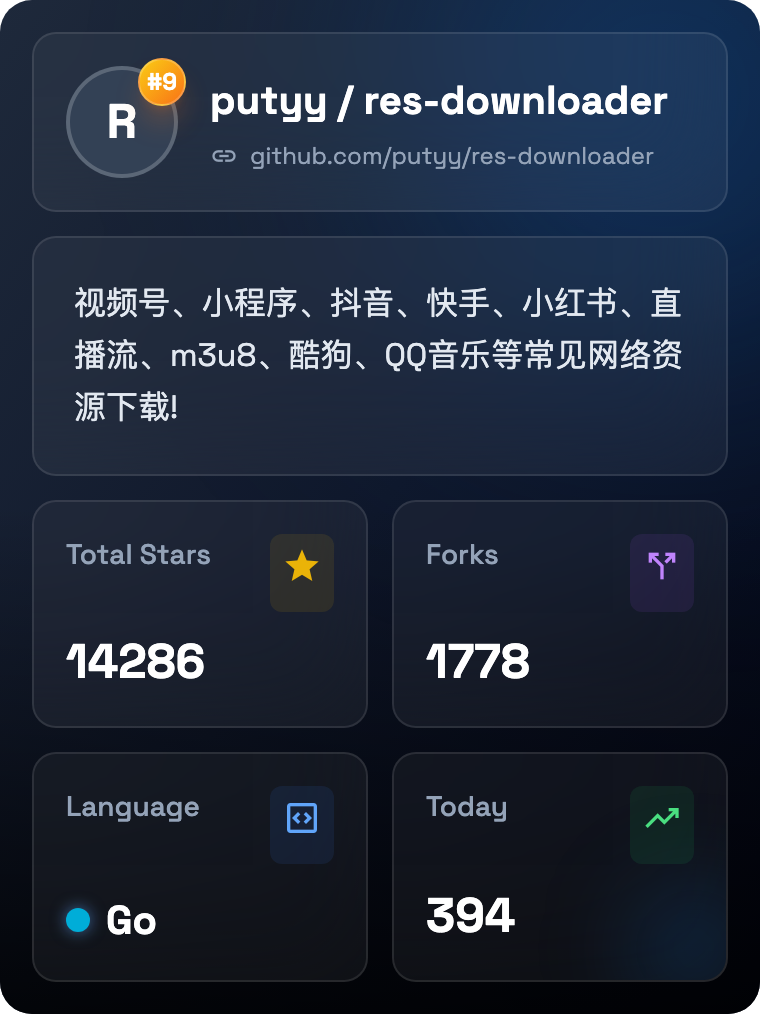
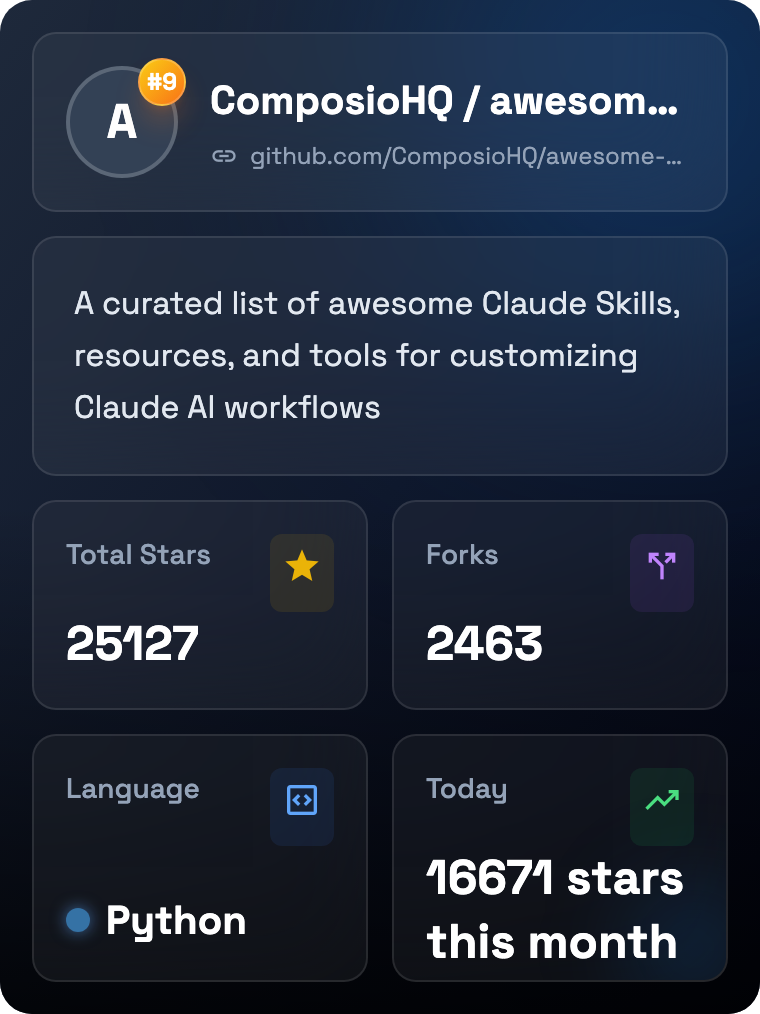
chore: template change

diff --git a/tests/scraper.test.ts b/tests/scraper.test.ts
@@ -1,7 +1,7 @@
 import { describe, it, expect, beforeAll } from 'vitest';
 import * as fs from 'fs';
 import * as path from 'path';
-import { parseTrendingHtml, validateRepos } from '../src/scraper';
+import { parseTrendingHtml, validateRepos, buildTrendingUrl } from '../src/scraper';
 import { TrendingRepoSchema } from '../src/types';
 import { parseNumber } from '../src/utils';
 
@@ -67,6 +67,61 @@ describe('scraper', () => {
         const result = TrendingRepoSchema.safeParse(repo);
         expect(result.success).toBe(true);
       });
+    });
+  });
+
+  describe('buildTrendingUrl', () => {
+    it('should return base URL when no options provided', () => {
+      expect(buildTrendingUrl()).toBe('https://github.com/trending');
+      expect(buildTrendingUrl({})).toBe('https://github.com/trending');
+    });
+
+    it('should add language to URL path', () => {
+      expect(buildTrendingUrl({ language: 'typescript' })).toBe(
+        'https://github.com/trending/typescript'
+      );
+      expect(buildTrendingUrl({ language: 'python' })).toBe(
+        'https://github.com/trending/python'
+      );
+    });
+
+    it('should convert language to lowercase', () => {
+      expect(buildTrendingUrl({ language: 'TypeScript' })).toBe(
+        'https://github.com/trending/typescript'
+      );
+      expect(buildTrendingUrl({ language: 'PYTHON' })).toBe(
+        'https://github.com/trending/python'
+      );
+    });
+
+    it('should add since query parameter', () => {
+      expect(buildTrendingUrl({ since: 'daily' })).toBe(
+        'https://github.com/trending?since=daily'
+      );
+      expect(buildTrendingUrl({ since: 'weekly' })).toBe(
+        'https://github.com/trending?since=weekly'
+      );
+      expect(buildTrendingUrl({ since: 'monthly' })).toBe(
+        'https://github.com/trending?since=monthly'
+      );
+    });
+
+    it('should combine language and since parameters', () => {
+      expect(buildTrendingUrl({ language: 'typescript', since: 'weekly' })).toBe(
+        'https://github.com/trending/typescript?since=weekly'
+      );
+      expect(buildTrendingUrl({ language: 'go', since: 'monthly' })).toBe(
+        'https://github.com/trending/go?since=monthly'
+      );
+    });
+
+    it('should encode special characters in language', () => {
+      expect(buildTrendingUrl({ language: 'c++' })).toBe(
+        'https://github.com/trending/c%2B%2B'
+      );
+      expect(buildTrendingUrl({ language: 'c#' })).toBe(
+        'https://github.com/trending/c%23'
+      );
     });
   });
 

diff --git a/src/scraper.ts b/src/scraper.ts
@@ -1,12 +1,29 @@
 import axios from 'axios';
 import * as cheerio from 'cheerio';
-import type { TrendingRepo } from './types';
+import type { TrendingRepo, TrendingOptions } from './types';
 import { TrendingRepoSchema } from './types';
 
 const GITHUB_TRENDING_URL = 'https://github.com/trending';
 
-export async function fetchTrending(limit: number = 10): Promise<TrendingRepo[]> {
-  const response = await axios.get(GITHUB_TRENDING_URL, {
+export function buildTrendingUrl(options?: TrendingOptions): string {
+  let url = GITHUB_TRENDING_URL;
+
+  if (options?.language) {
+    url += `/${encodeURIComponent(options.language.toLowerCase())}`;
+  }
+
+  if (options?.since) {
+    url += `?since=${options.since}`;
+  }
+
+  return url;
+}
+
+export async function fetchTrending(options?: TrendingOptions): Promise<TrendingRepo[]> {
+  const url = buildTrendingUrl(options);
+  const limit = options?.limit ?? 10;
+
+  const response = await axios.get(url, {
     headers: {
       'User-Agent': 'Mozilla/5.0 (Macintosh; Intel Mac OS X 10_15_7) AppleWebKit/537.36',
     },

diff --git a/src/renderer/templates/card-2.html b/src/renderer/templates/card-2.html
@@ -110,7 +110,7 @@
           <!-- Subtle gradient blob for highlight -->
           <div class="absolute -bottom-4 -right-4 w-16 h-16 bg-primary/20 blur-xl rounded-full"></div>
           <div class="flex justify-between items-start relative z-10">
-            <span class="text-slate-400 text-sm font-medium">Today</span>
+            <span class="text-slate-400 text-sm font-medium">trend</span>
             <div class="p-1.5 rounded-md bg-green-500/10 text-green-400">
               <span class="material-symbols-outlined text-[20px]">trending_up</span>
             </div>

diff --git a/src/types.ts b/src/types.ts
@@ -1,5 +1,15 @@
 import { z } from 'zod';
 
+// 时间范围选项
+export type TimeRange = 'daily' | 'weekly' | 'monthly';
+
+// 筛选选项接口
+export interface TrendingOptions {
+  language?: string;      // 语言筛选，如 'typescript', 'python'
+  since?: TimeRange;      // 时间范围，默认 'daily'
+  limit?: number;         // 返回数量，默认 10
+}
+
 export interface TrendingRepo {
   rank: number;
   owner: string;

diff --git a/src/index.ts b/src/index.ts
@@ -6,7 +6,7 @@ import { renderCards } from './renderer/index.js';
 async function main() {
   try {
     console.log('Fetching GitHub Trending repositories...');
-    const repos = await fetchTrending(10);
+    const repos = await fetchTrending({ limit: 10, since: 'monthly' });
 
     console.log('Validating data...');
     const validatedRepos = validateRepos(repos);
